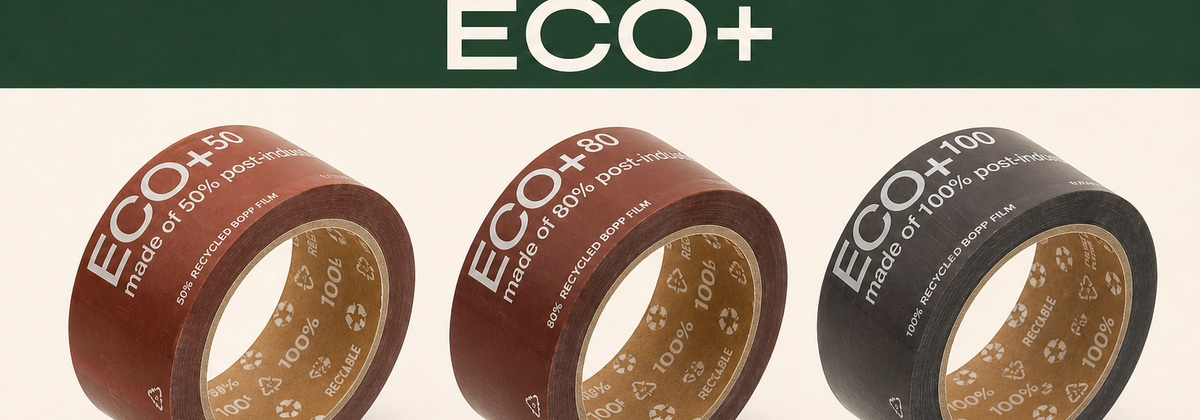
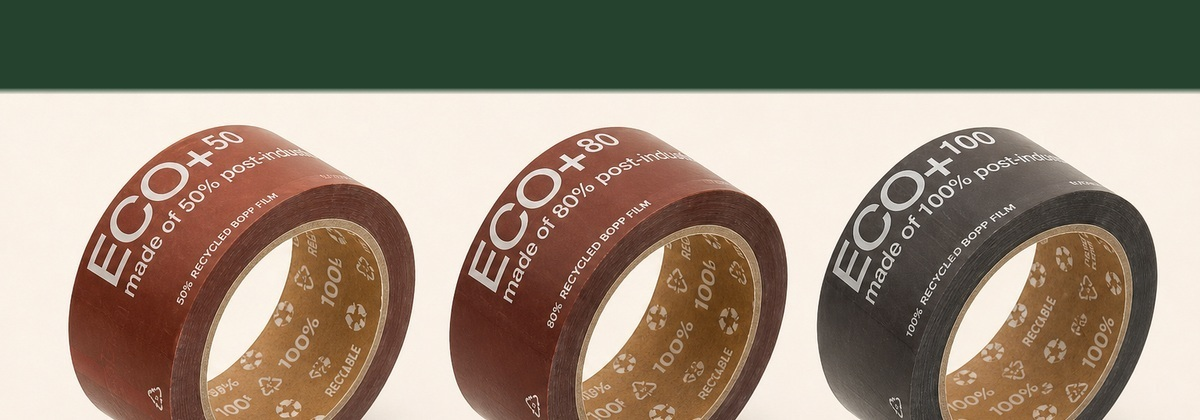
Odstranit ECO+ z benefit grafiky a zesvětlit pilulky v dark módu.

Changed region(s): [[0.0, 0.0, 1.0, 0.2476]]

diff --git a/assets/css/theme-dark.css b/assets/css/theme-dark.css
@@ -378,9 +378,10 @@
     color: #fcd34d !important;
 }
 
-/* Benefits badges (#vyhody – Tamper / Extra Glue) */
+/* Benefits badges (#vyhody – ECO+ / Extra Glue) */
 .dark #vyhody span.border-red-200,
-.dark #vyhody span.border-orange-200 {
+.dark #vyhody span.border-orange-200,
+.dark #vyhody span.border-emerald-200 {
     border-color: transparent !important;
 }
 
@@ -392,12 +393,29 @@
     background-color: rgb(249 115 22 / 0.22) !important;
 }
 
+.dark #vyhody span.border-emerald-200 {
+    background-color: rgb(16 185 129 / 0.18) !important;
+}
+
 .dark #vyhody .text-red-700 {
     color: #fca5a5 !important;
 }
 
 .dark #vyhody .text-orange-700 {
     color: #fdba74 !important;
+}
+
+.dark #vyhody .text-emerald-700 {
+    color: #6ee7b7 !important;
+}
+
+.dark #vyhody a.text-emerald-700 {
+    color: #34d399 !important;
+}
+
+.dark #vyhody a.text-emerald-700:hover,
+.dark #vyhody a.hover\:text-emerald-800:hover {
+    color: #6ee7b7 !important;
 }
 
 .dark #vyhody strong.text-slate-800 {

diff --git a/index.html b/index.html
@@ -46,7 +46,7 @@
     <link href="https://fonts.googleapis.com/css2?family=Plus+Jakarta+Sans:wght@400;500;600;700;800&family=Roboto+Condensed:wght@400;700&display=swap" rel="stylesheet">
     <link rel="stylesheet" href="/assets/css/logo-carousel.css?v=25">
     <link rel="stylesheet" href="/assets/css/privacy-modal.css">
-    <link rel="stylesheet" href="/assets/css/theme-dark.css">
+    <link rel="stylesheet" href="/assets/css/theme-dark.css?v=8">
     <link rel="stylesheet" href="/assets/css/faq.css?v=2">
     <link rel="stylesheet" href="/assets/css/info-banner.css?v=15">
     <link rel="stylesheet" href="/assets/css/inquiry-dropdown.css?v=4">
@@ -431,7 +431,7 @@
 
         <article class="group glass glass--card relative flex flex-col overflow-hidden rounded-3xl transition-all duration-300">
             <div class="relative h-52 overflow-hidden bg-emerald-50 sm:h-56">
-                <img src="/images/benefit-eco-plus.jpg?v=12" alt="Udržitelné pásky ECO+ 50, ECO+ 80 a ECO+ 100" class="h-full w-full object-cover object-center" loading="lazy">
+                <img src="/images/benefit-eco-plus.jpg?v=15" alt="Udržitelné pásky ECO+ 50, ECO+ 80 a ECO+ 100" class="h-full w-full object-cover object-center" loading="lazy">
                 <div class="pointer-events-none absolute inset-0 bg-gradient-to-t from-white/20 via-transparent to-transparent"></div>
             </div>
             <div class="flex flex-1 flex-col px-8 pb-10 pt-6">